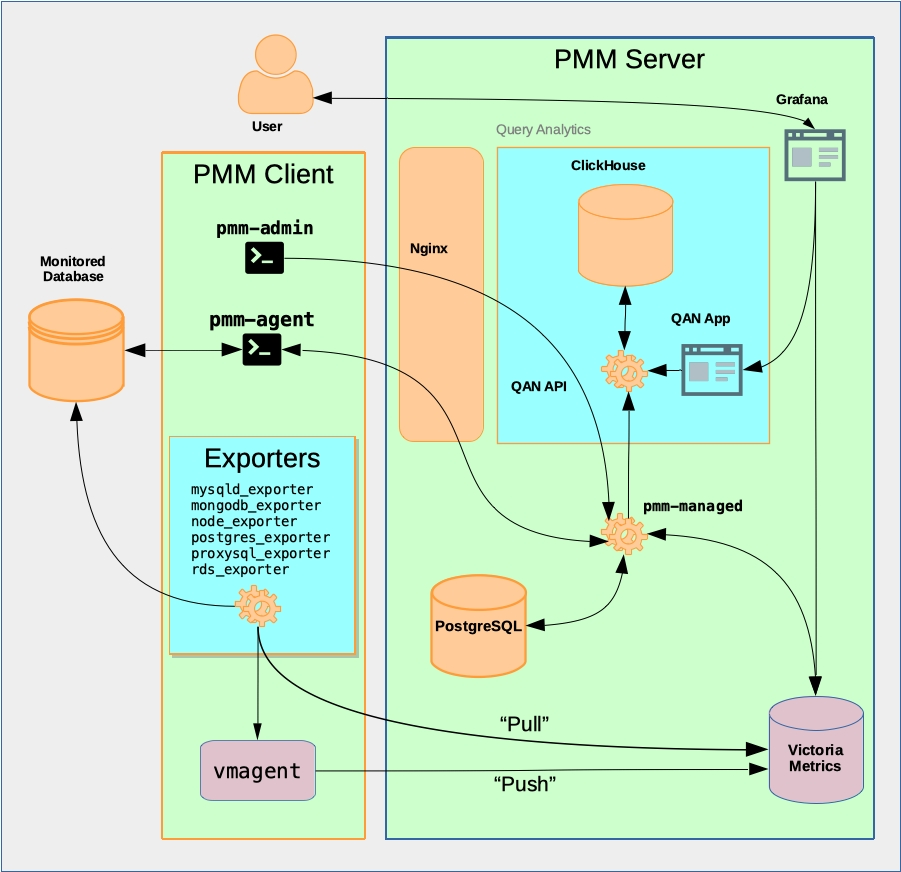
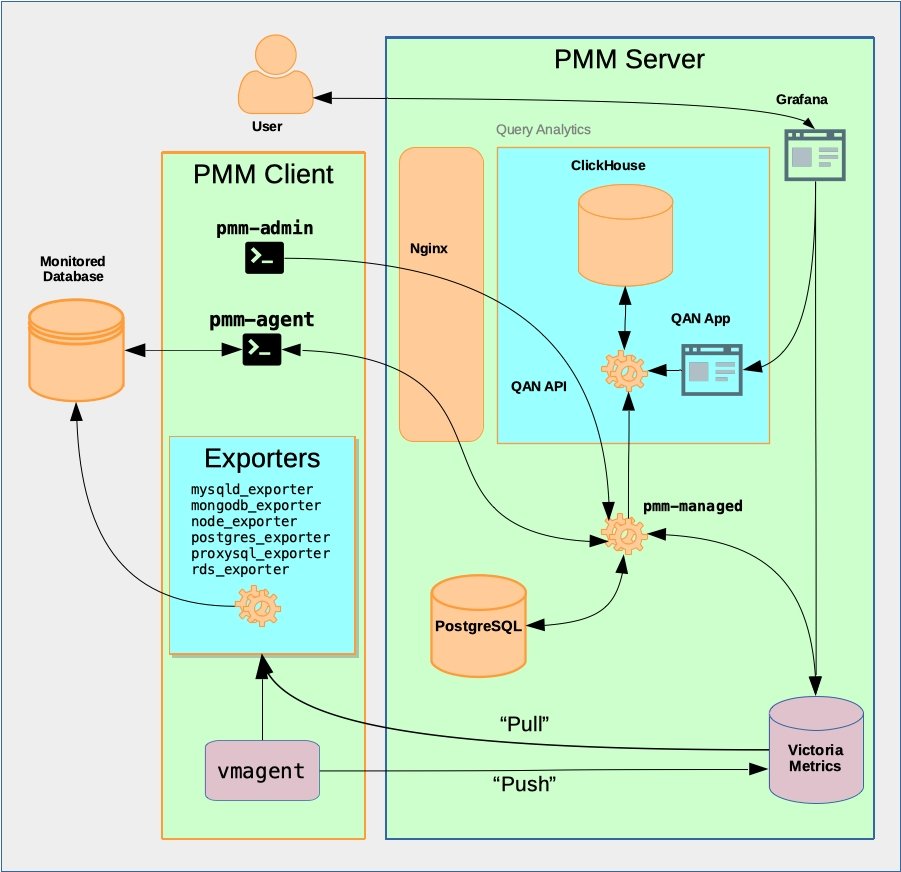
PMM-6406 Diag update & mermaid test

diff --git a/resources/PMM_Architecture_Client_Server.md b/resources/PMM_Architecture_Client_Server.md
@@ -1,0 +1,40 @@
+```mermaid
+flowchart TB
+
+    VM[("VictoriaMetrics")]
+    CL[("ClickHouse")]
+        GR["Grafana"]
+        MN["Monitored Database"]
+    AD(["fa:fa-terminal pmm-admin"])
+    AG(["fa:fa-terminal pmm-agent"])
+    US(("fa:fa-user User"))
+    style US fill:#f9f,stroke:#333,stroke-width:4px
+
+    subgraph "PMM Server"
+        subgraph QAN ["Query Analytics"]
+            QANAPP---QAN-API
+            QAN-API---CL
+        end
+
+        NGINX
+        pmm-managed
+        VM
+        GR
+    end
+
+    MN---exporters
+    subgraph "PMM Client"
+        exporters-->vmagent
+        subgraph "Commands"
+            AD
+            AG
+        end
+    end
+
+    VM<-->pmm-managed---QAN-API
+    QANAPP---GR---US
+    exporters-->|pull|VM<-->GR
+    vmagent-->|push|VM
+    AD --- pmm-managed
+    AG --- pmm-managed
+```
